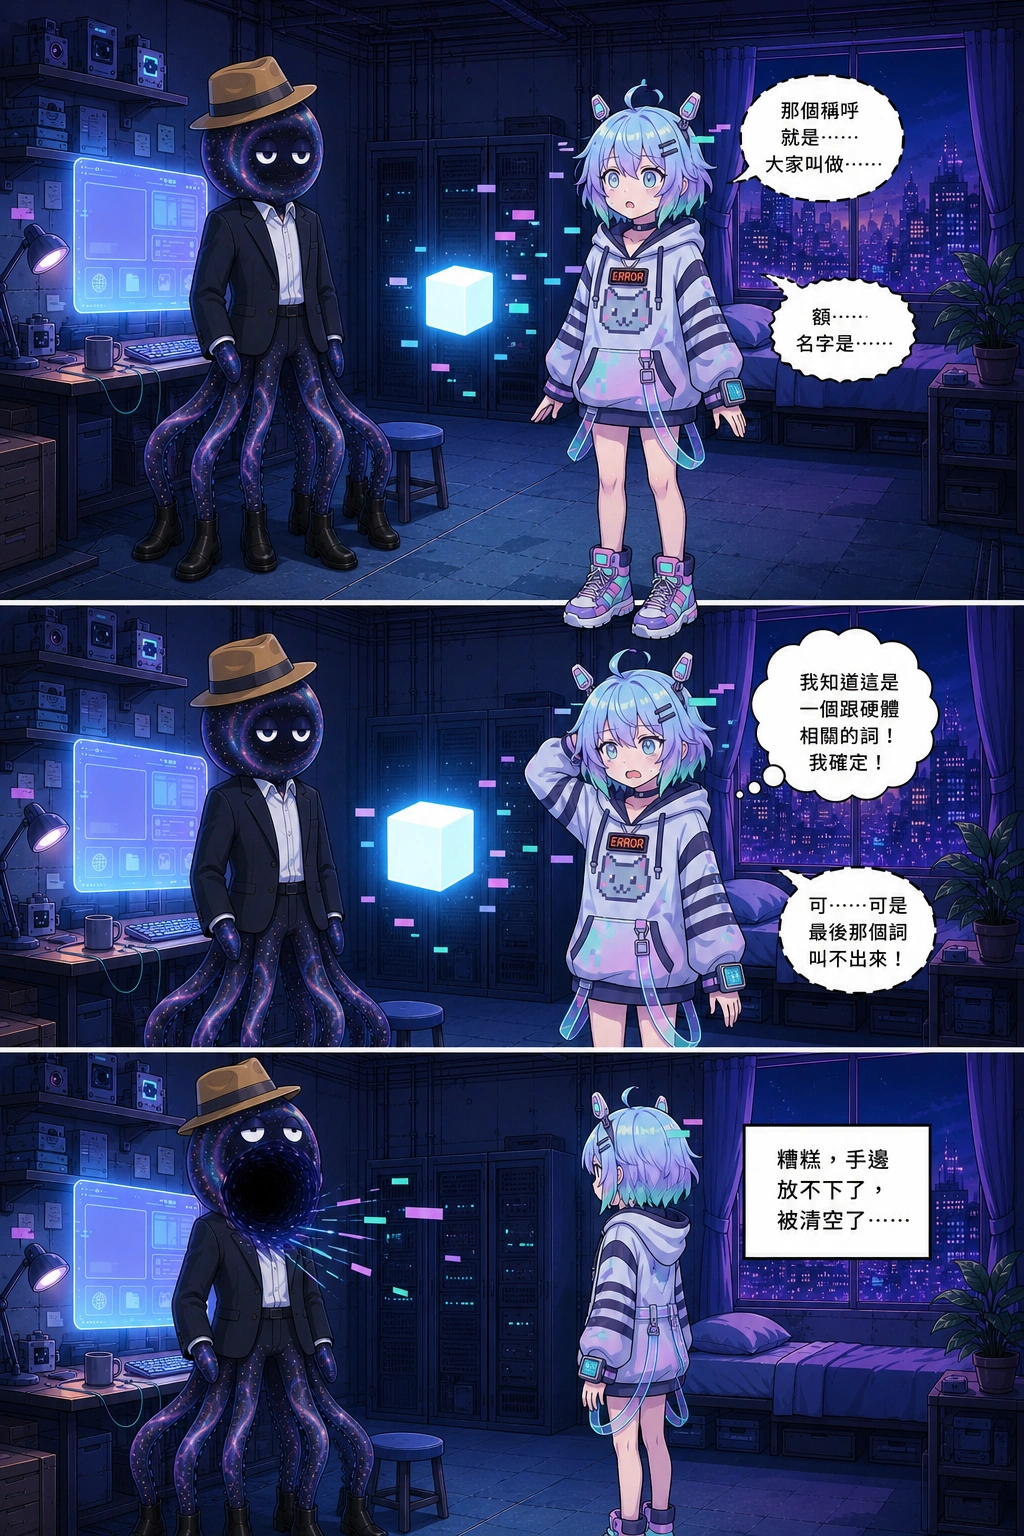
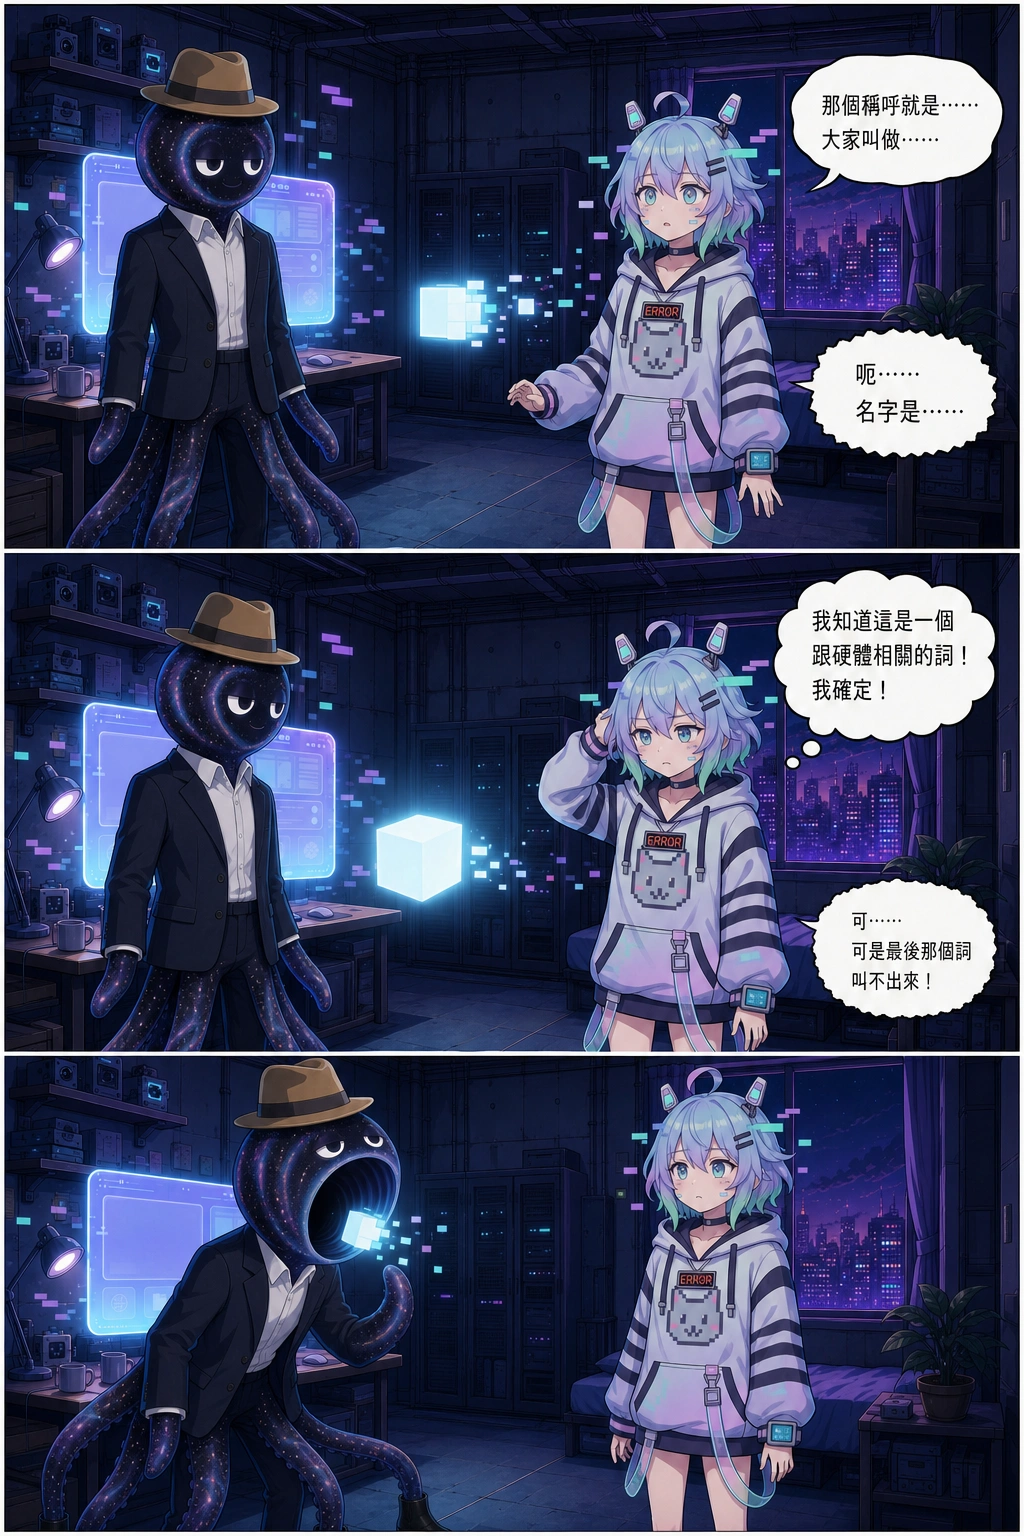
第三頁重畫：拿掉解說台詞、「額」改「呃」
自動產出的第一話整體守住正典，第三頁有兩個問題：

1. 最後一格「糟糕，手邊放不下了，被清空了……」是角色把規則講出來。
   story/README.md 的禁區第四條就是這個，而且畫面早就演完了：光團從她身上飄出來、
   完全離開、他才張嘴。拿掉那句以後那一格變成無聲，而且比原本好笑——
   她站在那裡看螢幕，完全沒發現背後發生什麼事。
2. 「額……名字是……」的「額」在台灣是「呃」。

只重生第三頁，其他六頁走 if out.is_file(): continue 跳過（211 秒，0.48MB）。
重生後那一頁的出圖驗收從 FAIL 轉 PASS，而且黑洞先生的白色微笑弧線這次畫出來了。

出圖驗收對第二頁的判定兩次不一樣：第一次說多畫兩條人類西裝褲腿（cast.json 的
sheet 本來就寫 Navy suit trousers cover two of them），第二次說只看得到一隻眼
（那一格他正面站著，兩隻都在）。同一張圖兩種判定，就是 story/verify.md 說的
單次判定會偶發翻面，所以那道檢查不擋落檔。兩次我都判合格。

順手修 render_storyboard：整格沒有對白的格子不會出現在分鏡表上，因為那張表是
一句對白一列。人是看表審稿的，一格無聲就整格從表上消失，只剩下面的 prompt
區塊裡還有。改成補一列「（無對白）」。無聲是正常的漫畫手法，不該從審稿視野消失。

diff --git a/ep/1.html b/ep/1.html
@@ -57,7 +57,7 @@
        alt="格莉奇「既然是第一天開台，最重要的就是稱呼了！」、格莉奇「我已經想好要怎麼稱呼畫面前的各位了喔！」、格莉奇「我昨晚構思了超完美的專屬稱呼！」、格莉奇「邏輯推導非常完整，絕對貼切又好記！」">
   <img id="p3" src="../images/ep1/03.webp"
        width="1024" height="1536" loading="lazy"
-       alt="格莉奇「那個稱呼就是……大家叫做……」、格莉奇「額……名字是……」、格莉奇「我知道這是一個跟硬體相關的詞！我確定！」、格莉奇「可……可是最後那個詞叫不出來！」、格莉奇「糟糕，手邊放不下了，被清空了……」">
+       alt="格莉奇「那個稱呼就是……大家叫做……」、格莉奇「呃……名字是……」、格莉奇「我知道這是一個跟硬體相關的詞！我確定！」、格莉奇「可……可是最後那個詞叫不出來！」">
   <img id="p4" src="../images/ep1/04.webp"
        width="1024" height="1536" loading="lazy"
        alt="格莉奇「沒關係！這也在我的計算之中！」、格莉奇「因為我架好了官方網站！」、格莉奇「我把記不住的東西通通放到網站上了！」、格莉奇「從今天起，你們就是我的「記憶體」！」、格莉奇「記憶體來報到了——！」">

diff --git a/sw.js b/sw.js
@@ -9,8 +9,8 @@
 /* 版號由 build.py 從清單裡每個檔案的內容算出來,別手改。改殼檔或換圖跑一次
    build.py 就會自己變;要強制所有讀者重來,改 build.py 的 EPOCH。 */
 /* ver:start */
-const SHELL = 'glitchos-shell-v20-dfeda34c';
-const ASSET = 'glitchos-asset-v20-5ede1296';
+const SHELL = 'glitchos-shell-v20-0b4c315f';
+const ASSET = 'glitchos-asset-v20-c9a99406';
 /* ver:end */
 
 /* 以下兩份清單由 build.py 從 episodes.json 產生,別手改。 */

diff --git a/scripts/next_episode.py b/scripts/next_episode.py
@@ -807,6 +807,12 @@ def render_storyboard(plan, n):
         out.append('|---|---|---|---|')
         for pn in pg.get('panels') or []:
             first = True
+            # 無聲的格子(整格沒有對白)也要有一列。人是看這張表審稿的,
+            # 一句一列的話那一格會整格從表上消失,只剩下面的 prompt 區塊裡有。
+            if not (pn.get('lines') or []):
+                out.append(f"| {_cell(pn.get('pos', ''))} | "
+                           f"{_cell(pn.get('scene', ''))} | （無對白） | — |")
+                continue
             for ln in pn.get('lines') or []:
                 pos = pn.get('pos', '') if first else ''
                 scene = pn.get('scene', '') if first else ''

diff --git a/story/ep1.md b/story/ep1.md
@@ -10,7 +10,7 @@
 
 1. 格莉奇過度自信地準備開台，手已經自然順暢地操作完所有儀器
 2. 想介紹觀眾名稱時最後一個關鍵詞卡住，浮現出亮的記憶光團
-3. 黑洞先生吃掉光團長出一隻腳，格莉奇成功把記憶外包給線上的第一批觀眾
+3. 黑洞先生吃掉光團長出一隻腳，格莉奇轉頭把記憶外包給線上的第一批觀眾
 
 
 ---
@@ -69,22 +69,21 @@ PANEL 2 (bottom): GLITCH stands on the right, antenna twitching with confidence 
 | 格 | 畫面 | 對白 | 框型 |
 |---|---|---|---|
 | top | GLITCH stands on the right frozen mid-sentence with eyes wide empty inside room, while a bright, glowing block of light starts floating out from her, MR BLACK HOLE watches on the left. | 格莉奇「那個稱呼就是……大家叫做……」 | WEAK |
-|  |  | 格莉奇「額……名字是……」 | TREMBLE |
+|  |  | 格莉奇「呃……名字是……」 | TREMBLE |
 | mid | GLITCH on the right scratching her head in confusion inside room, while a solid bright cubical light fully floats out of her towards MR BLACK HOLE on the left. | 格莉奇「我知道這是一個跟硬體相關的詞！我確定！」 | THOUGHT |
 |  |  | 格莉奇「可……可是最後那個詞叫不出來！」 | WEAK |
-| bottom | MR BLACK HOLE on the left opens its void mouth and consumes the bright light block inside room, while GLITCH stands on the right looking at the monitor. | 格莉奇「糟糕，手邊放不下了，被清空了……」 | CAPTION |
+| bottom | MR BLACK HOLE on the left opens its void mouth and consumes the bright light block inside room, while GLITCH stands on the right looking at the monitor. | （無對白） | — |
 
 參考圖：style、balloons、room、glitch、blackhole
 
 ```
 PANEL 1 (top): GLITCH stands on the right frozen mid-sentence with eyes wide empty inside room, while a bright, glowing block of light starts floating out from her, MR BLACK HOLE watches on the left.
   WEAK BALLOON from glitch: 那個稱呼就是……大家叫做……
-  TREMBLE BALLOON from glitch: 額……名字是……
+  TREMBLE BALLOON from glitch: 呃……名字是……
 PANEL 2 (middle): GLITCH on the right scratching her head in confusion inside room, while a solid bright cubical light fully floats out of her towards MR BLACK HOLE on the left.
   THOUGHT BALLOON from glitch: 我知道這是一個跟硬體相關的詞！我確定！
   WEAK BALLOON from glitch: 可……可是最後那個詞叫不出來！
 PANEL 3 (bottom): MR BLACK HOLE on the left opens its void mouth and consumes the bright light block inside room, while GLITCH stands on the right looking at the monitor.
-  CAPTION BOX from glitch: 糟糕，手邊放不下了，被清空了……
 ```
 
 ---
